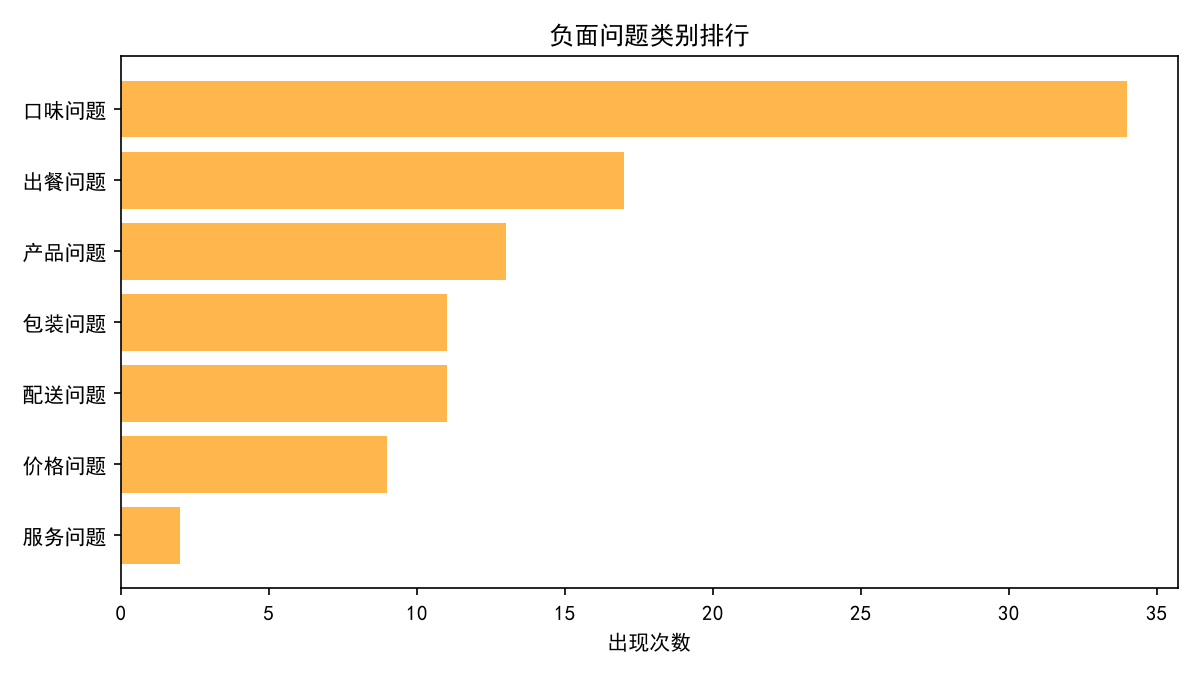
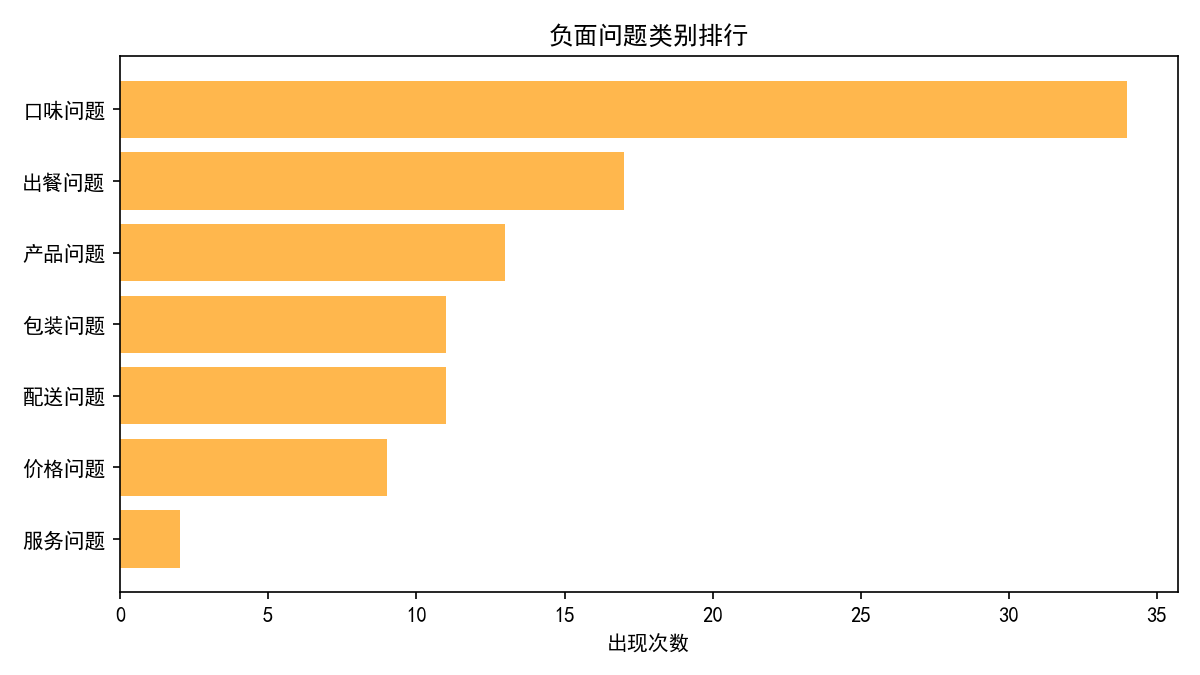
fix: update analysis charts and sentiment model

diff --git a/docs/实验报告.md b/docs/实验报告.md
@@ -1,30 +1,27 @@
 # 《软件开发技术基础》实验报告
 
-实验名称：奶茶店评论情感分析与服务改进建议系统
-学号：_____________    姓名：_____________
+实验名称：奶茶店评论情感分析与服务改进建议系统    学号：2580201251102    姓名：刘子夜
 
 ## 一、实验内容
 
-本次实验完成了一个面向奶茶店消费评论的文本分析系统。系统以 `data/reviews.csv` 中的评论数据为输入，对评论进行读取、清洗、情感分析、问题归因、品牌对比统计，并将分析结果导出为 CSV、Markdown 报告和 PNG 图表。
+本次实验完成了一个面向奶茶店消费评论的文本分析系统。选择奶茶店评论作为分析对象，是因为这类评论通常较短，但包含口味、价格、出餐速度、服务、包装、配送、小料等明确的用户反馈，适合用程序自动汇总情感倾向并识别主要问题。
 
-项目选择奶茶店评论作为应用场景，主要是因为这类评论通常比较短，但包含了口味、价格、出餐速度、服务、包装、配送、小料等比较明确的用户反馈。直接人工逐条查看评论效率较低，所以我把实验目标定为：用程序自动汇总评论情感倾向，找出差评中出现较多的问题，并根据统计结果生成改进建议。
+系统以 `data/reviews.csv` 为输入，对评论进行读取、清洗、情感分析、问题归因和品牌对比统计，并将结果导出为 CSV、Markdown 报告、PNG 图表和持久化的 sklearn 模型文件。
 
-系统主要实现了以下功能：
+系统主要实现以下功能：
 
-1. 读取 CSV 评论数据，并校验字段、评分和情感标签是否有效。
+1. 读取 CSV 评论数据，校验字段、评分和情感标签是否有效。
 2. 对评论文本进行标点清理、停用词过滤和关键词提取。
 3. 使用情感词典、程度副词和否定词实现规则情感分析。
-4. 使用 `TF-IDF + LogisticRegression` 训练一个简单的监督学习情感分类器。
-5. 将用户评分映射为情感标签，并与人工标签、规则模型结果、机器学习结果进行一致率对比。
+4. 使用 `TF-IDF + LogisticRegression` 训练监督学习情感分类器。
+5. 将评分映射为情感标签，并与人工标签、规则模型结果、机器学习结果进行一致率对比。
 6. 对非正面评论进行问题归因，识别口味、价格、出餐、服务、包装、配送、产品等问题。
 7. 统计整体情感分布、各品牌情感情况、高频关键词和问题排行。
 8. 生成分析报告、逐条分析结果表、模型评估文件和三张统计图。
 
-从代码结构上看，系统按功能拆分为多个类，例如 `ReviewReader` 负责数据读取，`TextCleaner` 负责文本处理，`SentimentAnalyzer` 负责规则情感分析，`ProblemAnalyzer` 负责问题归因，`StatisticsManager` 负责统计，`ReportExporter` 和 `ChartGenerator` 负责结果输出。这样拆分后，每个模块的职责比较清楚，也方便后面写单元测试。
+代码按功能拆分为多个类：`ReviewReader` 负责数据读取，`TextCleaner` 负责文本处理，`SentimentAnalyzer` 负责规则情感分析，`ProblemAnalyzer` 负责问题归因，`StatisticsManager` 负责统计，`ReportExporter` 和 `ChartGenerator` 负责结果输出，`SystemController` 串联完整流程。这样拆分后，每个模块职责清晰，也便于编写单元测试。
 
 ## 二、实验环境
-
-本次实验使用的环境如下：
 
 | 项目 | 内容 |
 |---|---|
@@ -35,7 +32,7 @@
 | 主要第三方库 | scikit-learn、matplotlib、joblib |
 | 测试工具 | Python unittest |
 
-项目依赖写在 `requirements.txt` 中，运行前可通过下面命令安装：
+项目依赖写在 `requirements.txt` 中，运行前可通过以下命令安装：
 
 ```bash
 pip install -r requirements.txt
@@ -45,6 +42,8 @@ pip install -r requirements.txt
 
 ```bash
 python -m src.main
+# 或直接运行
+python src/main.py
 ```
 
 单元测试运行命令为：
@@ -57,14 +56,13 @@ python -m unittest discover tests
 
 ### 1. 数据准备与读取
 
-实验数据保存在 `data/reviews.csv` 中，共 500 条评论。数据字段包括评论编号、日期、品牌、产品、渠道、评论内容、评分和人工情感标签。数据来源由两部分组成：一部分来自 ASAP 公开中文餐馆评论 sample 中经过饮品场景过滤后保留的奶茶/饮品相关评论片段（约 32 条）；另一部分是人工整理的奶茶消费场景样例（约 468 条），用来覆盖甜度、冰量、小料、外卖包装等更贴近本项目的问题。 ASAP 原始数据覆盖烧烤、火锅、海鲜、日料等多种餐饮场景，因此通过白名单/黑名单过滤后仅保留与奶茶、果茶、咖啡、饮料相关的句子，避免无关餐厅评论进入分析。由于当前数据主要服务于课程项目展示，后续统计结果适合用于说明系统功能和分析流程，不直接作为真实商业判断依据。
+实验数据保存在 `data/reviews.csv` 中，共 500 条评论。数据字段包括评论编号、日期、品牌、产品、渠道、评论内容、评分和人工情感标签。数据来源由两部分组成：一部分来自 ASAP 公开中文餐馆评论 sample 中经过饮品场景过滤后保留的奶茶/饮品相关评论片段（约 32 条）；另一部分是人工整理的奶茶消费场景样例（约 468 条），用于覆盖甜度、冰量、小料、外卖包装等更贴近本项目的问题。ASAP 原始数据覆盖烧烤、火锅、海鲜、日料等多种餐饮场景，因此通过白名单/黑名单过滤后仅保留与奶茶、果茶、咖啡、饮料相关的句子，避免无关餐厅评论进入分析。
 
-输入数据中保留 `rating` 和 `label` 主要是为了训练和验证。`label` 作为监督学习标签，用于训练和评估机器学习模型；`rating` 作为辅助参考字段，用来映射出一个评分情感标签。系统最终分析不直接使用 `rating` 判断情感，而是结合评论文本内容进行规则分析和机器学习预测，再将程序生成的结果与 `label`、评分映射结果进行对比。
+输入数据中保留 `rating` 和 `label` 主要是为了训练和验证：`label` 作为监督学习标签，用于训练和评估机器学习模型；`rating` 作为辅助参考字段，用来映射出一个评分情感标签。系统最终分析不直接使用 `rating` 判断情感，而是结合评论文本内容进行规则分析和机器学习预测，再将程序生成的结果与 `label`、评分映射结果进行对比。
 
-读取数据时，我没有直接使用字典在各模块之间传来传去，而是定义了 `Review` 数据类保存单条评论及后续分析结果。这样后面不管是补充 tokens、情感得分，还是记录问题类别，都能放到同一个对象中，代码也更容易检查。
+读取数据时，我没有使用字典在各模块之间传递，而是定义了 `Review` 数据类保存单条评论及后续分析结果。这样无论是补充 tokens、情感得分，还是记录问题类别，都能放到同一个对象中，代码也更容易检查。
 
 核心数据对象如下：
-
 对应代码如下（来自 `src/models.py`）：
 
 ```python
@@ -86,20 +84,19 @@ class Review:
     problem_categories: list[str] = field(default_factory=list)
 ```
 
-数据读取模块会检查 CSV 是否包含必要字段，评分是否在 1 到 5 之间，标签是否属于“正面、中性、负面”，评论正文是否为空。这样可以避免脏数据进入后续分析流程。
+数据读取模块会检查 CSV 是否包含必要字段，评分是否在 1 到 5 之间，标签是否属于“正面、中性、负面”，评论正文是否为空，避免脏数据进入后续分析流程。
 
 ### 2. 文本清洗与关键词提取
 
-文本清洗主要由 `TextCleaner` 完成，处理步骤包括去除常见标点、合并空格、匹配词典短语、过滤停用词等。评论中有些品牌名或产品名可能会干扰情感判断，例如品牌“爷爷喜欢茶”中包含“喜欢”，如果不处理，程序可能会把本来中性的评论误判为正面。
+文本清洗主要由 `TextCleaner` 完成，处理步骤包括去除常见标点、合并空格、匹配词典短语、过滤停用词等。
 
-为了解决这个问题，系统在处理单条评论时，会把当前评论的品牌名和产品名作为忽略项，只分析真正的评论正文表达。这个问题在调试时比较容易被忽略，后面我专门加了回归测试，确认品牌名里的情感词不会进入评分 tokens。
+调试时发现一个细节：品牌“爷爷喜欢茶”中包含了“喜欢”，如果不处理，程序可能会把本来中性的评论误判为正面。解决办法是在处理单条评论时，把当前评论的品牌名和产品名作为忽略项，只对真正的评论正文表达进行分析。这个问题容易在调试时被忽略，因此我专门加了回归测试，确认品牌名里的情感词不会进入评分 tokens。
 
 ### 3. 规则情感分析
 
 规则情感分析使用情感词、否定词和程度副词。基本思路是遍历评论提取出的 tokens，如果遇到情感词，就取它的基础分；如果前一个词是程度副词，就乘以权重；如果前一个词或前两个词是否定词，就把分数取反。
 
 核心逻辑如下：
-
 对应代码如下（来自 `src/sentiment_analyzer.py`）：
 
 ```python
@@ -132,9 +129,9 @@ score >= 1      判为正面
 score <= -1     判为负面
 ```
 
-（阈值选择 1 和 -1 的原因是：奶茶评论通常较短，单条评论中往往只有一个明确的情感词。若正面阈值设得过高，像“好喝”“细腻”“稳定”这类短评价容易被误判为中性；而将正面阈值设为 1，负面阈值保持 -1，可以在保证可解释性的同时，让规则模型对常见短评论更敏感，减少中性区间的漏判。）
+阈值选择 1 和 -1 的原因是：奶茶评论通常较短，单条评论中往往只有一个明确的情感词。若正面阈值设得过高，像“好喝”“细腻”“稳定”这类短评价容易被误判为中性；而将正面阈值设为 1，负面阈值保持 -1，可以在保证可解释性的同时，让规则模型对常见短评论更敏感，减少中性区间的漏判。
 
-规则方法的优点是过程比较直观，能够说明一条评论为什么被判成正面或负面；缺点是词典覆盖不够时会漏判，所以后面又增加了机器学习分类器作对比。
+规则方法的优点是过程直观，能够说明一条评论为什么被判成正面或负面；缺点是词典覆盖不够时会漏判，因此后面又增加了机器学习分类器作对比。
 
 ### 4. 机器学习情感分类
 
@@ -167,7 +164,7 @@ confusion matrix:
 
 从混淆矩阵看，测试集中正面评论有 1 条被误判为负面，中性评论有 3 条被误判为正面，负面评论有 1 条被误判为中性。这个结果说明模型对正面和负面评论的识别较稳定，但对语气较轻、表达不明显的中性评论还存在一定混淆。
 
-### 5. 评分标签对比、问题归因与建议生成
+### 5. 评分标签对比
 
 系统还增加了评分标签对比功能。具体映射规则为：
 
@@ -175,6 +172,17 @@ confusion matrix:
 rating >= 4      映射为正面
 rating == 3      映射为中性
 rating <= 2      映射为负面
+```
+
+对应代码在 `src/statistics_manager.py` 中：
+
+```python
+def rating_to_label(self, rating: int) -> str:
+    if rating >= 4:
+        return "正面"
+    if rating <= 2:
+        return "负面"
+    return "中性"
 ```
 
 该结果保存为 `rating_sentiment_label`，并导出到 `output/analyzed_reviews.csv`。本次运行中，三类结果与人工标签的一致率如下：
@@ -185,15 +193,17 @@ rating <= 2      映射为负面
 | 机器学习模型与人工标签 | 98.40% |
 | 评分映射与人工标签 | 100.00% |
 
-评分映射与人工标签一致率为 100.00%，是因为当前样例数据的 `label` 基本按评分区间构建，可作为一个参考基线；它不能代替文本情感分析。规则模型的一致率较低，主要因为规则模型更保守，容易把没有明显情感词的评论判为中性；机器学习模型在全量数据上的一致率较高，但它依赖已有标注数据，实际泛化能力仍需要更多外部数据验证。
+评分映射与人工标签一致率为 100.00%，是因为当前样例数据的 `label` 基本按评分区间构建，可作为一个参考基线，但不能代替文本情感分析。规则模型的一致率较低，主要因为规则模型更保守，容易把没有明显情感词的评论判为中性；机器学习模型在全量数据上的一致率较高，但它依赖已有标注数据，实际泛化能力仍需要更多外部数据验证。
 
 需要说明的是，`ml_evaluation.txt` 中的 accuracy（约 95%）是 8:2 训练/测试划分后在测试集上评估的结果；而报告中“机器学习模型与人工标签一致率”（98.40%）是把模型在 80% 训练数据上训练后，对全部 500 条数据重新预测得到的整体一致率，两者评估范围不同，因此数值存在差异。
+
+### 6. 问题归因与建议生成
 
 问题归因只针对非正面评论进行处理。系统维护了七类问题关键词，分别是口味问题、价格问题、出餐问题、服务问题、包装问题、配送问题和产品问题。一条评论可以同时命中多个问题类别，例如“太甜了，包装还漏了，等了很久”会同时归到口味、包装和出餐问题。
 
 归因之后，`SuggestionGenerator` 会根据每个品牌出现最多的几个问题生成改进建议。例如口味问题较多时，建议复核甜度、冰量和茶底比例；包装问题较多时，建议检查杯盖密封性和外卖二次封装。
 
-### 6. 系统流程整合
+### 7. 系统流程整合
 
 完整流程由 `SystemController` 串联。程序先读取评论，再构建词表和清洗器，接着逐条进行规则情感分析与问题归因，然后训练机器学习模型并预测每条评论，最后生成统计结果、图表和报告。
 
@@ -211,15 +221,23 @@ rating <= 2      映射为负面
 
 主程序运行截图如下：
 
-![主程序终端输出](./images/terminal_output.png)
+<p align="center">
+  <img src="./images/terminal_output.png" width="90%">
+</p>
 
 运行后生成的图表如下：
 
-![整体情感分布](../output/charts/sentiment_distribution.png)
+<p align="center">
+  <img src="../output/charts/sentiment_distribution.png" width="80%">
+</p>
 
-![品牌情感对比](../output/charts/brand_sentiment_compare.png)
+<p align="center">
+  <img src="../output/charts/brand_sentiment_compare.png" width="80%">
+</p>
 
-![主要问题排行](../output/charts/problem_ranking.png)
+<p align="center">
+  <img src="../output/charts/problem_ranking.png" width="80%">
+</p>
 
 终端运行主程序时，输出结果如下：
 
@@ -254,7 +272,9 @@ Ran 24 tests
 OK
 ```
 
-![单元测试终端输出](./images/test_output.png)
+<p align="center">
+  <img src="./images/test_output.png" width="90%">
+</p>
 
 ## 四、结果分析
 